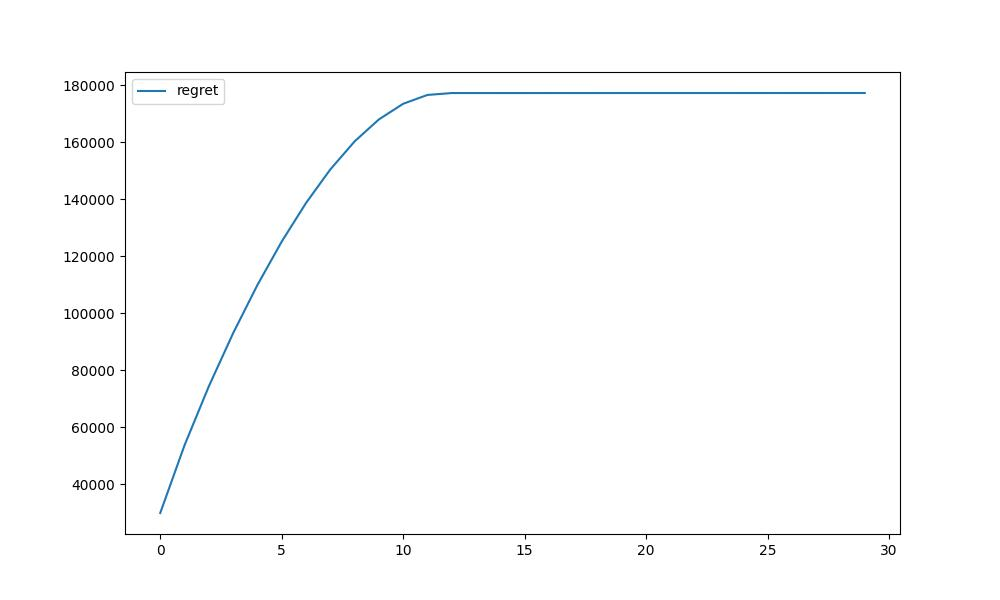
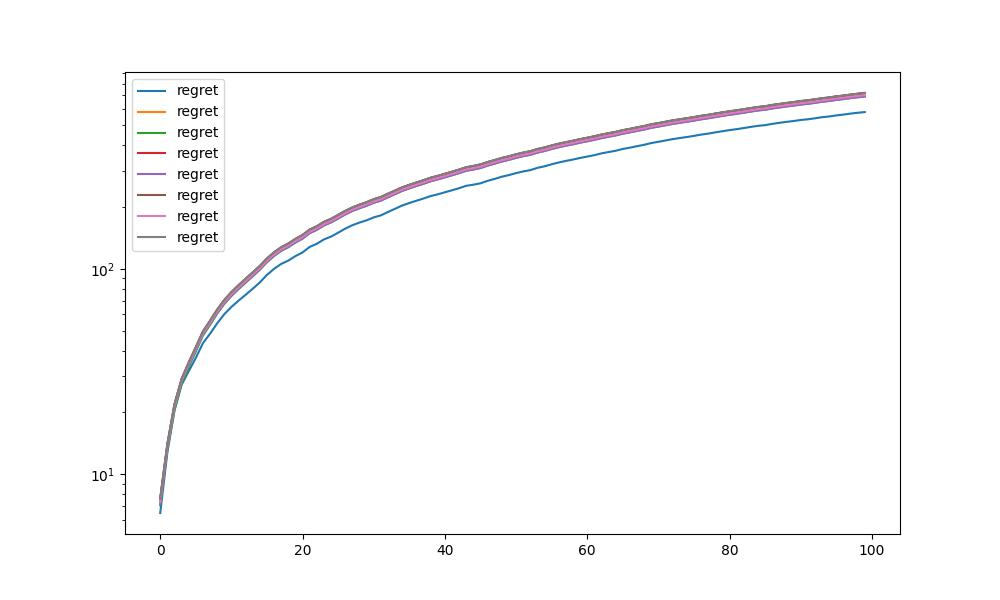
update

diff --git a/gp/gp_ucb.py b/gp/gp_ucb.py
@@ -1,16 +1,13 @@
 import numpy as np
 import matplotlib.pyplot as plt
 import GPy
+import os
+import sys
+import math
 
+from datagen import get_system
+#GP-UCB Class
 
-#GP-UCB Code
-
-#1. Initialize with a prior over function space.
-#2. For loop over time steps
-#3. Sample initial
-#4. Get y value
-#5. Update prior to get posterior
-#6. Sample using sampling rule. So 3 parts: initialize, sample for t =0, cost function, updation
 
 class gp_ucb:
     def __init__(self, domain):
@@ -25,18 +22,19 @@ class gp_ucb:
     def sample(self, mean, cov):
         beta = 0.5
         var = np.diag(cov).reshape(-1, 1)
-        print(np.shape(var))
         score = mean + (beta**0.5 * var)
         # print(np.shape(score))
-        i = np.argmax(score)
+        max_indices = np.where(score == score.max())[0]
+        i = np.random.choice(max_indices)
         print(i)
         x = self.X[i]
-        return(x)
+        return(x, i)
 
-    def cost(self, x):
-        c = 3*x**2 + 2 
-        w = np.random.normal()
+    def cost(self, Q, x):
+        c = np.transpose(x) @ Q @ x
+        w = np.random.normal(loc = 0, scale = 1, size =1)
         y = c + w
+        # print(w)
         return(y)
     
 
@@ -46,37 +44,99 @@ class gp_ucb:
             
             return(mean, cov)
 
-X = np.linspace(0, 100, 1000)[:, None]
-k = GPy.kern.RBF(1, variance = 1., lengthscale = 50)
+#system parameters
+n,m = 2,2
+x_0 = np.array([0.2, 0.0])
+
+T = 4
+sigma_0 = np.eye(n) *0.1
+Q = np.diag([2.0, 3.0])
+name = 'stable'
+norm_folder = 'gp_norms_{}.'.format(name)
+state_folder = 'gp_states_{}'.format(name)
+os.makedirs(norm_folder, exist_ok=True)
+os.makedirs(state_folder, exist_ok=True)
+A, B, CT = get_system(name, n, m, T, seed=2)
+u = np.random.randn(m*T, 1)
+
+x_f = np.linalg.matrix_power(A, T) @ x_0.reshape(-1, 1) + CT @ u
+x_f =  x_f.reshape(-1)
+
+N_T = np.eye(n)
+
+for i in range(1, T):
+     N_T = np.hstack((N_T, np.linalg.matrix_power(A, i)))
+     
+sigma_w = np.eye(n*T) * 0.1
+sigma_z = np.linalg.matrix_power(A, T) @ sigma_0 @ np.linalg.matrix_power(A, T).T + N_T @ sigma_w @ N_T.T
+traceSigma = np.trace(sigma_z)
+tau = 2 * np.trace(sigma_z @ sigma_z)
+b = (np.linalg.matrix_power(A, T) @ x_0) - x_f
+epsilon = 0.001
+delta = 0.01
+
+
+def sample_u(CT, b, alpha, n):
+    m, d = CT.shape  # C is m x d
+    u_samples = []
+
+    while len(u_samples) < n:
+        # sample x in the ball ||x||^2 < alpha
+        x = np.random.normal(size=m)
+        x = x / np.linalg.norm(x)  # unit vector
+        r = np.sqrt(alpha) * np.random.rand()**(1/m)
+        x = r * x
+
+        # solve for u: C^T u = x - b
+        # u = np.linalg.pinv(C.T) @ (x - b)
+        u = np.linalg.lstsq(CT, x - b, rcond=None)[0]
+
+        u_samples.append(u)
+
+    return np.array(u_samples)
+
+
+
+b = np.linalg.matrix_power(A, T)@x_0 - x_f
+alpha = epsilon**2 - b.T@b + (traceSigma/delta) - 2*epsilon*math.sqrt(traceSigma/delta)
+print(alpha)
+X =  sample_u(CT, b, alpha, 10) # set of inputs from constraint (only change)
+k = GPy.kern.RBF(m*T)
+
+print(X)
 algo = gp_ucb(X)
 X_obs = []
 Y_obs = []
-reg = []
+# reg = []
+indices = []
 mean, cov = algo.initialize(k)
 print(mean)
-yb = algo.cost(100)
+# Y = algo.cost(X)
+# yb = np.max(Y)
 plt.figure(figsize = (10, 6))
-sr = 0
-for t in range(0,30):
+# sr = 0
+N = np.arange(0, np.shape(X)[0])
+for t in range(0,100):
     x = algo.sample(mean, cov)
     X_obs.append(x)
-    y = algo.cost(x)
+    y, i = algo.cost(Q, x)
+    indices.append(i)
     Y_obs.append(y)
-    regret = yb - y
-    sr = sr + regret
-    reg.append(sr)
+    # regret = yb - y
+    # sr = sr + regret
+    # reg.append(sr)
     mean, cov = algo.updation(np.array(Y_obs), np.array(X_obs))
-    plt.fill_between(X[:,0], mean[:, 0] - 1*np.sqrt(np.diag(cov)), mean[:, 0] + 1*np.sqrt(np.diag(cov)), alpha=0.2, color='blue')
-    plt.plot(X, mean, color = 'blue')
-    plt.scatter(X_obs, Y_obs, color ='black')
+    plt.fill_between(N, mean[:, 0] - 1*np.sqrt(np.diag(cov)), mean[:, 0] + 1*np.sqrt(np.diag(cov)), alpha=0.2, color='blue')
+    plt.plot(N, mean, color = 'red')
+    plt.scatter(indices, Y_obs, color ='black')
     plt.xlabel('X')
     plt.ylabel('Mean function')
     plt.legend()
     plt.pause(0.4)
-plt.savefig('gp_ucb.jpeg')
+    plt.savefig('gp_ucb.jpeg')
     
 plt.figure(figsize=(10, 6))
 N = np.arange(0, len(reg))
-plt.plot(N, reg, label = 'regret')
+plt.semilogy(N, reg, label = 'regret')
 plt.legend()
 plt.savefig('regret.jpeg')

diff --git a/gp/datagen.py b/gp/datagen.py
@@ -1,0 +1,83 @@
+import numpy as np
+import matplotlib.pyplot as plt
+import math
+import os
+
+
+# script to generate data for different kinds of systems
+
+
+
+def type_1(n, m, T, seed=None):
+    #stable system
+    if seed is not None:
+        np.random.seed(seed)
+    
+    # Start with a random matrix
+    A = np.random.randn(n, n)
+    
+    # Scale it to make it stable (shrink eigenvalues)
+    eigvals, eigvecs = np.linalg.eig(A)
+    max_abs_eig = np.max(np.abs(eigvals))
+    A = A / (1.2 * max_abs_eig)   # ensures spectral radius < 1
+    
+    # Random input matrix
+    B = np.random.randn(n, m)
+    N_T = B
+    for i in range(1, T):
+        N_T = np.hstack((N_T, np.linalg.matrix_power(A, i) @ B))
+    
+    return A, B, N_T
+
+def type_2(n, m, T, seed=None):
+    #unstable system
+    if seed is not None:
+        np.random.seed(seed)
+    
+    # Start with a random matrix
+    A = np.random.randn(n, n)
+    
+    # Scale to make eigenvalues > 1
+    eigvals, eigvecs = np.linalg.eig(A)
+    max_abs_eig = np.max(np.abs(eigvals))
+    A = A / (0.5 * max_abs_eig)  # ensures at least one eigenvalue > 1
+    
+    # Random input matrix
+    B = np.random.randn(n, m)
+    N_T = B
+    for i in range(1, T):
+        N_T = np.hstack((N_T, np.linalg.matrix_power(A, i) @ B))
+    
+    return A, B, N_T
+
+def type_3(n,m, T, seed=None, stable=True):
+    # diagonal system
+    if seed is not None:
+        np.random.seed(seed)
+    
+    if stable:
+        # Diagonal entries between -0.9 and 0.9
+        diag_entries = np.random.uniform(-0.9, 0.9, n)
+    else:
+        # Some entries greater than 1 in magnitude
+        diag_entries = np.random.uniform(1.1, 2.0, n)
+    
+    A = np.diag(diag_entries)
+    B = np.random.randn(n, m)
+    N_T = B
+    for i in range(1, T):
+        N_T = np.hstack((N_T, np.linalg.matrix_power(A, i) @ B))
+    
+    return A, B, N_T
+
+
+def get_system(name, n, m, T, seed=None):
+    systems = {
+        'stable': type_1,
+        'unstable': type_2,
+        'diagonal': type_3
+
+    }
+    return systems[name](n=n, m=m, T=T, seed=seed)
+
+
